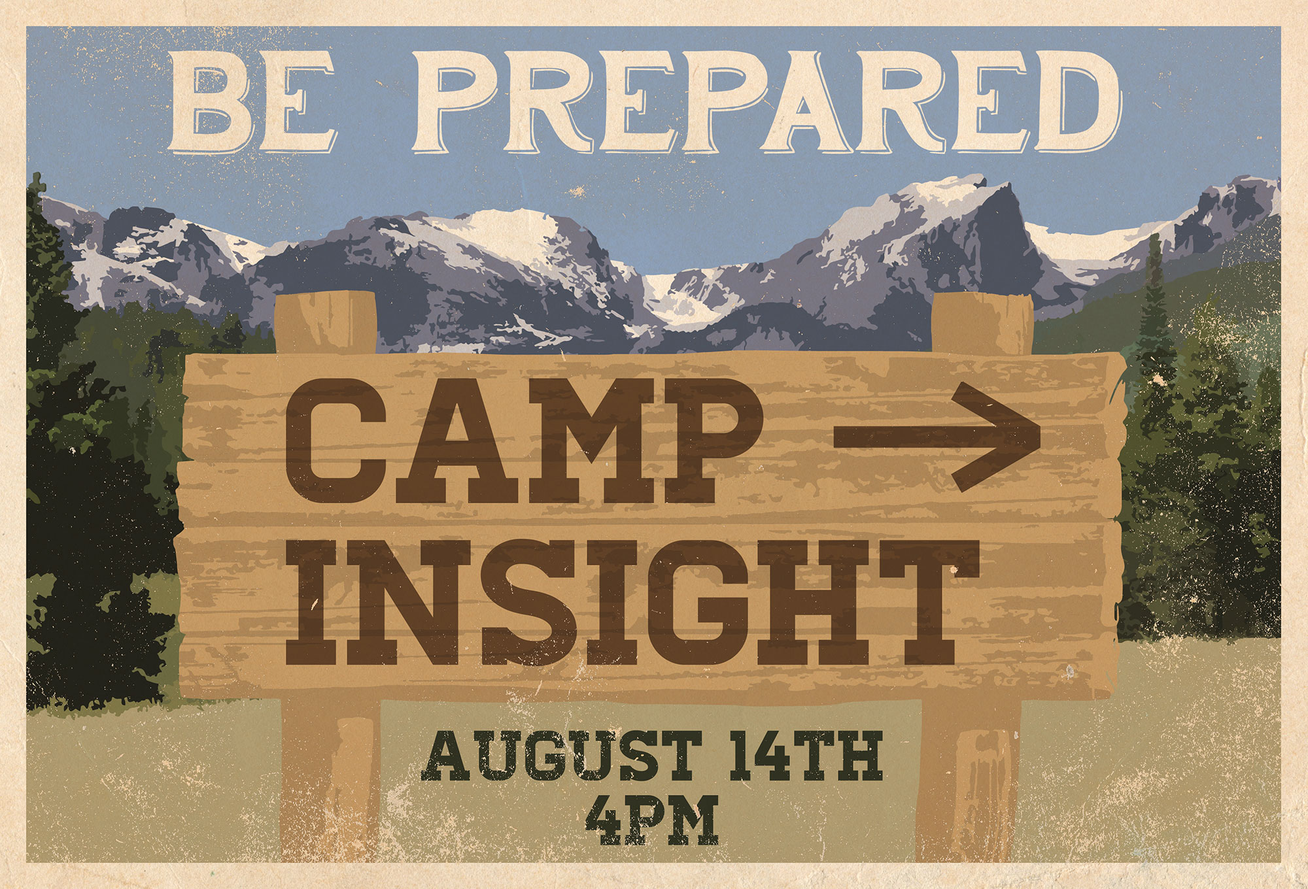
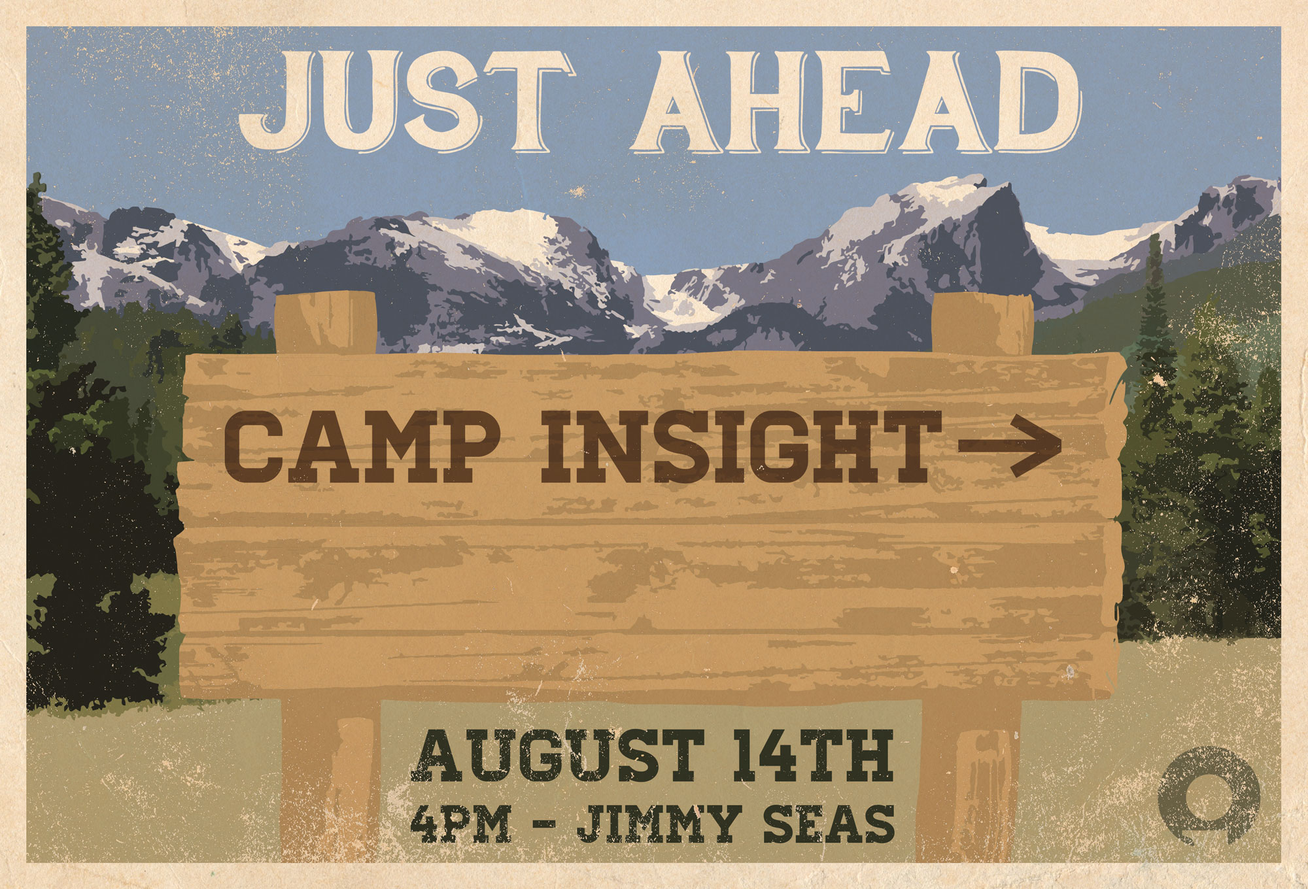
updated postcard.jpg and file path

diff --git a/index.html b/index.html
@@ -20,7 +20,7 @@
     <div class="container">
       <div class="row">
         <div class="main-image col-md-*">
-          <img class="img-responsive" src="img/summer-bash-postcard-web.png">
+          <img class="img-responsive" src="img/postcard.jpg">
           <div id="countdown"></div>
         </div>
       </div>
